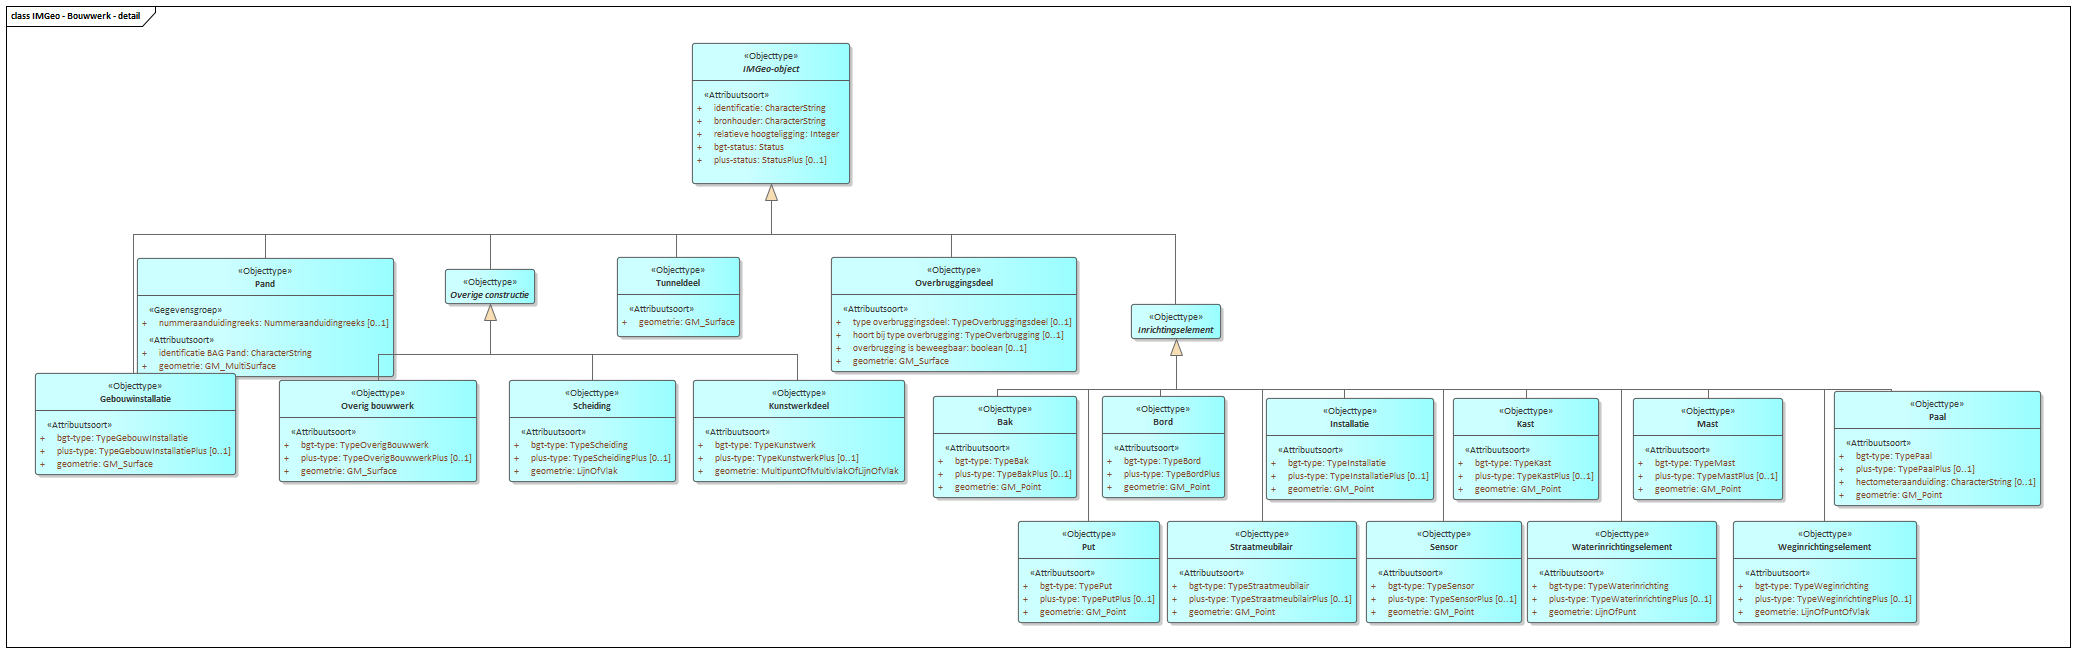
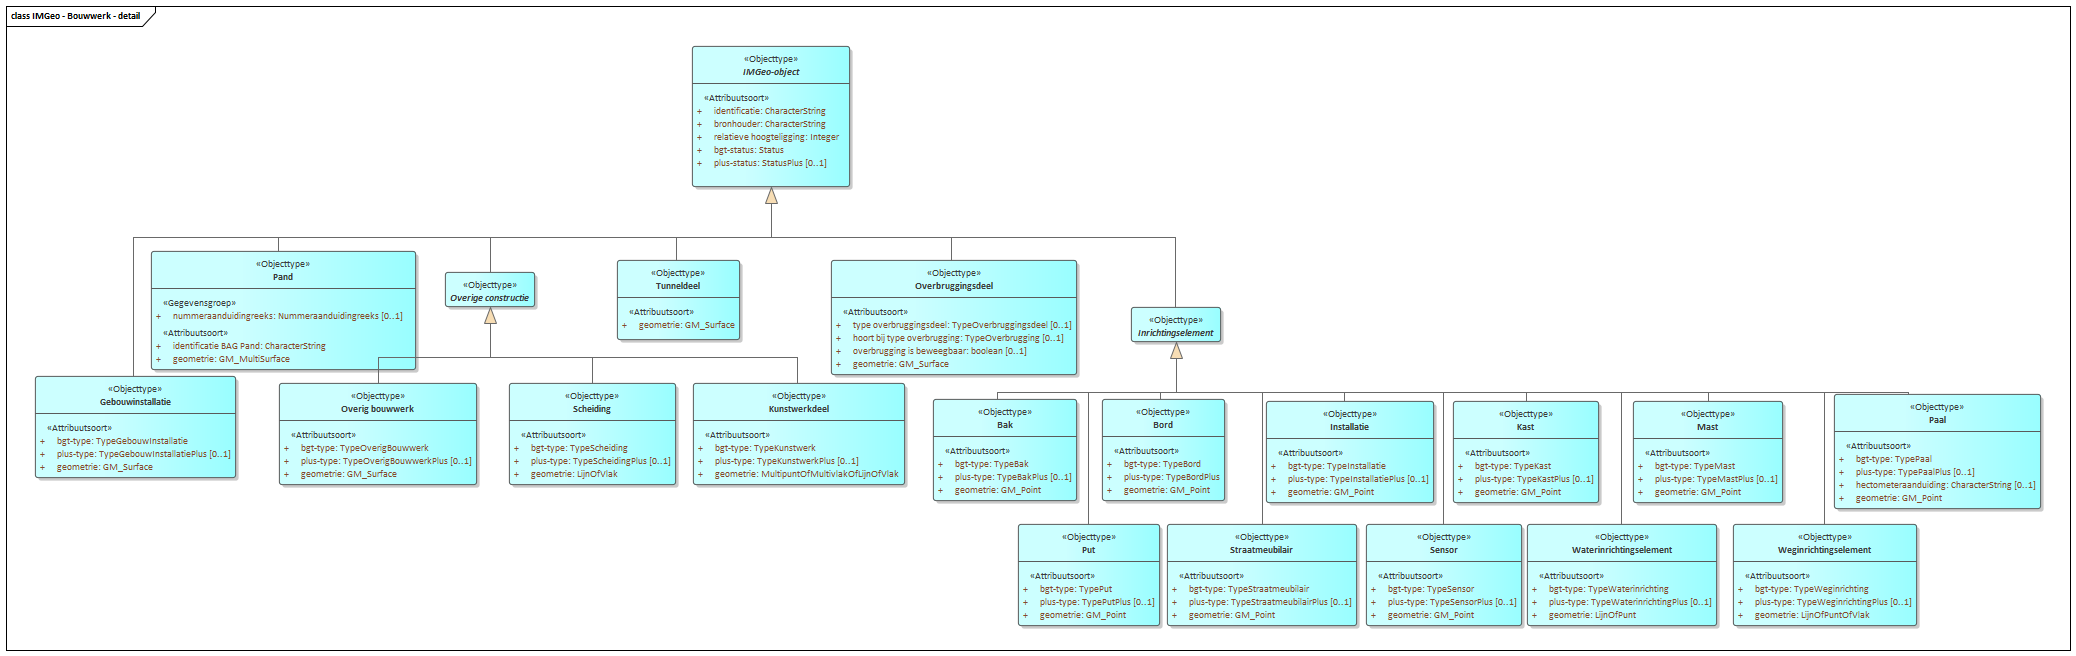
MIMCM-InformatiemodelGeografieIMGeo-conceptueel-1.0-0-20200701-20201215-135955

diff --git a/data/IMGeoMIM-cat.respec.html b/data/IMGeoMIM-cat.respec.html
@@ -1,7 +1,7 @@
 
 <section id="cat" class="normative">
    <h2>Gegevensdefinitie</h2>
-   <!--MIMCM-InformatiemodelGeografieIMGeo-conceptueel-1.0-0-20200701-20201215-135822 imvertor 1.62.2-->
+   <!--MIMCM-InformatiemodelGeografieIMGeo-conceptueel-1.0-0-20200701-20201215-135955 imvertor 1.62.2-->
    <section id="EAID_F4808203_D346_4e19_A0E0_0F12A0A48A10">
       <h3>Diagram   IMGeo - Transport, Terrein, Water - detail</h3>
       <div class="imageinfo "><img src="data/Images/EAID_F4808203_D346_4e19_A0E0_0F12A0A48A10.png" usemap="#imagemap-EAID_F4808203_D346_4e19_A0E0_0F12A0A48A10" alt="Diagram "><map name="imagemap-EAID_F4808203_D346_4e19_A0E0_0F12A0A48A10"><area shape="rect" alt="Ondersteunend waterdeel" coords="1060,394,1293,509" href="#graph_EAID_285456F8_B7BE_4a0b_A732_0CB3B01F9E09"><area shape="rect" alt="Waterdeel" coords="1169,230,1323,332" href="#graph_EAID_99BF045C_F962_4396_8CEC_C356BADD9F5B"><area shape="rect" alt="Vegetatie object" coords="747,400,941,502" href="#graph_EAID_AF1CAF23_1DA8_4cd5_8F9E_47FB11B51D4E"><area shape="rect" alt="Onbegroeid terreindeel" coords="514,234,836,362" href="#graph_EAID_96FDB788_BB53_4d7b_8726_310DF716EC45"><area shape="rect" alt="Begroeid terreindeel" coords="856,230,1144,358" href="#graph_EAID_3AD903EB_DBC0_4c1c_B30F_2A69E2B82000"><area shape="rect" alt="Spoor" coords="333,234,503,336" href="#graph_EAID_9A73030A_894B_44f0_8474_9A2776626FB0"><area shape="rect" alt="Ondersteunend wegdeel" coords="144,422,494,577" href="#graph_EAID_09E25A4C_C1C7_41e5_8C2D_942054F01D9E"><area shape="rect" alt="IMGeo-object" coords="469,43,621,171" href="#graph_EAID_1B21E16C_9E4C_4c8d_8CB5_1E35B41243EB"><area shape="rect" alt="Wegdeel" coords="35,234,297,388" href="#graph_EAID_141C517B_0337_4a8c_948C_516F063454FE"></map><p><b>IMGeo - Transport, Terrein, Water - detail</b></p>
@@ -14,7 +14,7 @@
    </section>
    <section id="EAID_AAE27511_FED5_4d0d_BA47_1041AAFF2933">
       <h3>Diagram   IMGeo - Bouwwerk - detail</h3>
-      <div class="imageinfo "><img src="data/Images/EAID_AAE27511_FED5_4d0d_BA47_1041AAFF2933.png" usemap="#imagemap-EAID_AAE27511_FED5_4d0d_BA47_1041AAFF2933" alt="Diagram "><map name="imagemap-EAID_AAE27511_FED5_4d0d_BA47_1041AAFF2933"><area shape="rect" alt="Weginrichtingselement" coords="1733,521,1917,623" href="#graph_EAID_607E5D78_4925_421e_9656_4B0BA6262C21"><area shape="rect" alt="Waterinrichtingselement" coords="1527,521,1717,623" href="#graph_EAID_58AFC5DF_8F7B_42fd_BF65_081A53C5DF4E"><area shape="rect" alt="Mast" coords="1633,398,1783,500" href="#graph_EAID_33BF6667_AC76_4662_AB8F_169A9AEFBD03"><area shape="rect" alt="Kast" coords="1453,398,1599,500" href="#graph_EAID_0EAD1532_141C_41b0_A472_3A0E5395603F"><area shape="rect" alt="Straatmeubilair" coords="1167,521,1357,623" href="#graph_EAID_349FB63B_2993_4228_A535_E3D48A05B7FF"><area shape="rect" alt="Put" coords="1018,521,1160,623" href="#graph_EAID_8AF8550A_4C5D_421f_A2E9_84EE5CA78BA0"><area shape="rect" alt="Paal" coords="1834,391,2041,506" href="#graph_EAID_1C5D6A3E_E4D5_44b8_85EA_54355E8AE2F5"><area shape="rect" alt="Installatie" coords="1266,398,1434,500" href="#graph_EAID_160CB003_2693_4c89_B36C_394617C684D5"><area shape="rect" alt="Gebouwinstallatie" coords="35,373,236,475" href="#graph_EAID_B6E894DE_953B_4911_83D2_F449AE1E4A0B"><area shape="rect" alt="Bord" coords="1102,396,1225,498" href="#graph_EAID_11151DAB_9A17_45ba_AE6C_F3152D2ADCF5"><area shape="rect" alt="Bak" coords="933,396,1077,498" href="#graph_EAID_70086FC7_9479_427e_92C6_683F7CC4C93C"><area shape="rect" alt="Inrichtingselement" coords="1131,304,1221,339" href="#graph_EAID_CA79D5DA_E6D4_4bc8_8597_5B50A56DAF42"><area shape="rect" alt="Scheiding" coords="509,380,676,482" href="#graph_EAID_7758B10D_C94A_45f9_8C7A_133D2EC0AD87"><area shape="rect" alt="Tunneldeel" coords="617,257,740,337" href="#graph_EAID_A6159626_DB05_46e4_9726_773CA218328D"><area shape="rect" alt="Overbruggingsdeel" coords="831,257,1077,372" href="#graph_EAID_EF4F6DCD_F658_47b6_BC18_672638D740C3"><area shape="rect" alt="Kunstwerkdeel" coords="693,380,905,482" href="#graph_EAID_69BCE102_6A99_445b_95C4_6DEE700870AD"><area shape="rect" alt="Overige constructie" coords="445,269,535,304" href="#graph_EAID_FA6301E5_2D0F_4cd1_B09E_AA2BB2B23D20"><area shape="rect" alt="Overig bouwwerk" coords="279,380,477,482" href="#graph_EAID_AC51AD8C_5710_46e8_A302_49C26E248CF7"><area shape="rect" alt="Pand" coords="137,258,394,377" href="#graph_EAID_4B1215E2_D03D_47e6_A00A_8968C2F47DF6"><area shape="rect" alt="Sensor" coords="1366,521,1522,623" href="#graph_EAID_BAE5E52D_81F4_46ea_AD00_A7521A6904CC"><area shape="rect" alt="IMGeo-object" coords="692,43,850,184" href="#graph_EAID_1B21E16C_9E4C_4c8d_8CB5_1E35B41243EB"></map><p><b>IMGeo - Bouwwerk - detail</b></p>
+      <div class="imageinfo "><img src="data/Images/EAID_AAE27511_FED5_4d0d_BA47_1041AAFF2933.png" usemap="#imagemap-EAID_AAE27511_FED5_4d0d_BA47_1041AAFF2933" alt="Diagram "><map name="imagemap-EAID_AAE27511_FED5_4d0d_BA47_1041AAFF2933"><area shape="rect" alt="Weginrichtingselement" coords="1733,524,1917,626" href="#graph_EAID_607E5D78_4925_421e_9656_4B0BA6262C21"><area shape="rect" alt="Waterinrichtingselement" coords="1527,524,1717,626" href="#graph_EAID_58AFC5DF_8F7B_42fd_BF65_081A53C5DF4E"><area shape="rect" alt="Mast" coords="1633,401,1783,503" href="#graph_EAID_33BF6667_AC76_4662_AB8F_169A9AEFBD03"><area shape="rect" alt="Kast" coords="1453,401,1599,503" href="#graph_EAID_0EAD1532_141C_41b0_A472_3A0E5395603F"><area shape="rect" alt="Straatmeubilair" coords="1167,524,1357,626" href="#graph_EAID_349FB63B_2993_4228_A535_E3D48A05B7FF"><area shape="rect" alt="Put" coords="1018,524,1160,626" href="#graph_EAID_8AF8550A_4C5D_421f_A2E9_84EE5CA78BA0"><area shape="rect" alt="Paal" coords="1834,394,2041,509" href="#graph_EAID_1C5D6A3E_E4D5_44b8_85EA_54355E8AE2F5"><area shape="rect" alt="Installatie" coords="1266,401,1434,503" href="#graph_EAID_160CB003_2693_4c89_B36C_394617C684D5"><area shape="rect" alt="Gebouwinstallatie" coords="35,376,236,478" href="#graph_EAID_B6E894DE_953B_4911_83D2_F449AE1E4A0B"><area shape="rect" alt="Bord" coords="1102,399,1225,501" href="#graph_EAID_11151DAB_9A17_45ba_AE6C_F3152D2ADCF5"><area shape="rect" alt="Bak" coords="933,399,1077,501" href="#graph_EAID_70086FC7_9479_427e_92C6_683F7CC4C93C"><area shape="rect" alt="Inrichtingselement" coords="1131,307,1221,342" href="#graph_EAID_CA79D5DA_E6D4_4bc8_8597_5B50A56DAF42"><area shape="rect" alt="Scheiding" coords="509,383,676,485" href="#graph_EAID_7758B10D_C94A_45f9_8C7A_133D2EC0AD87"><area shape="rect" alt="Tunneldeel" coords="617,260,740,340" href="#graph_EAID_A6159626_DB05_46e4_9726_773CA218328D"><area shape="rect" alt="Overbruggingsdeel" coords="831,260,1077,375" href="#graph_EAID_EF4F6DCD_F658_47b6_BC18_672638D740C3"><area shape="rect" alt="Kunstwerkdeel" coords="693,383,905,485" href="#graph_EAID_69BCE102_6A99_445b_95C4_6DEE700870AD"><area shape="rect" alt="Overige constructie" coords="445,272,535,307" href="#graph_EAID_FA6301E5_2D0F_4cd1_B09E_AA2BB2B23D20"><area shape="rect" alt="Overig bouwwerk" coords="279,383,477,485" href="#graph_EAID_AC51AD8C_5710_46e8_A302_49C26E248CF7"><area shape="rect" alt="Pand" coords="151,251,416,370" href="#graph_EAID_4B1215E2_D03D_47e6_A00A_8968C2F47DF6"><area shape="rect" alt="Sensor" coords="1366,524,1522,626" href="#graph_EAID_BAE5E52D_81F4_46ea_AD00_A7521A6904CC"><area shape="rect" alt="IMGeo-object" coords="692,46,850,187" href="#graph_EAID_1B21E16C_9E4C_4c8d_8CB5_1E35B41243EB"></map><p><b>IMGeo - Bouwwerk - detail</b></p>
       </div>
    </section>
    <section id="EAID_AD300A02_AFA3_4af9_9AB8_D5514FC2FB71">
@@ -12228,7 +12228,7 @@
 </section>
 <section id="lis" class="normative">
    <h2>Inhoud van waardenlijsten</h2>
-   <!--MIMCM-InformatiemodelGeografieIMGeo-conceptueel-1.0-0-20200701-20201215-135822 imvertor 1.62.2--><a class="anchor" id="graph_EAID_5EFC3C11_5FD1_4cf6_BA9C_27FEDC7E2E0F"></a><a class="anchor" id="detail_class_InformatiemodelGeografieIMGeo_Status"></a><section id="detail_class_InformatiemodelGeografieIMGeo_Status">
+   <!--MIMCM-InformatiemodelGeografieIMGeo-conceptueel-1.0-0-20200701-20201215-135955 imvertor 1.62.2--><a class="anchor" id="graph_EAID_5EFC3C11_5FD1_4cf6_BA9C_27FEDC7E2E0F"></a><a class="anchor" id="detail_class_InformatiemodelGeografieIMGeo_Status"></a><section id="detail_class_InformatiemodelGeografieIMGeo_Status">
       <h3>Enumeratie details  Status</h3>
       
       <table style="width: 100%;" class="list">
